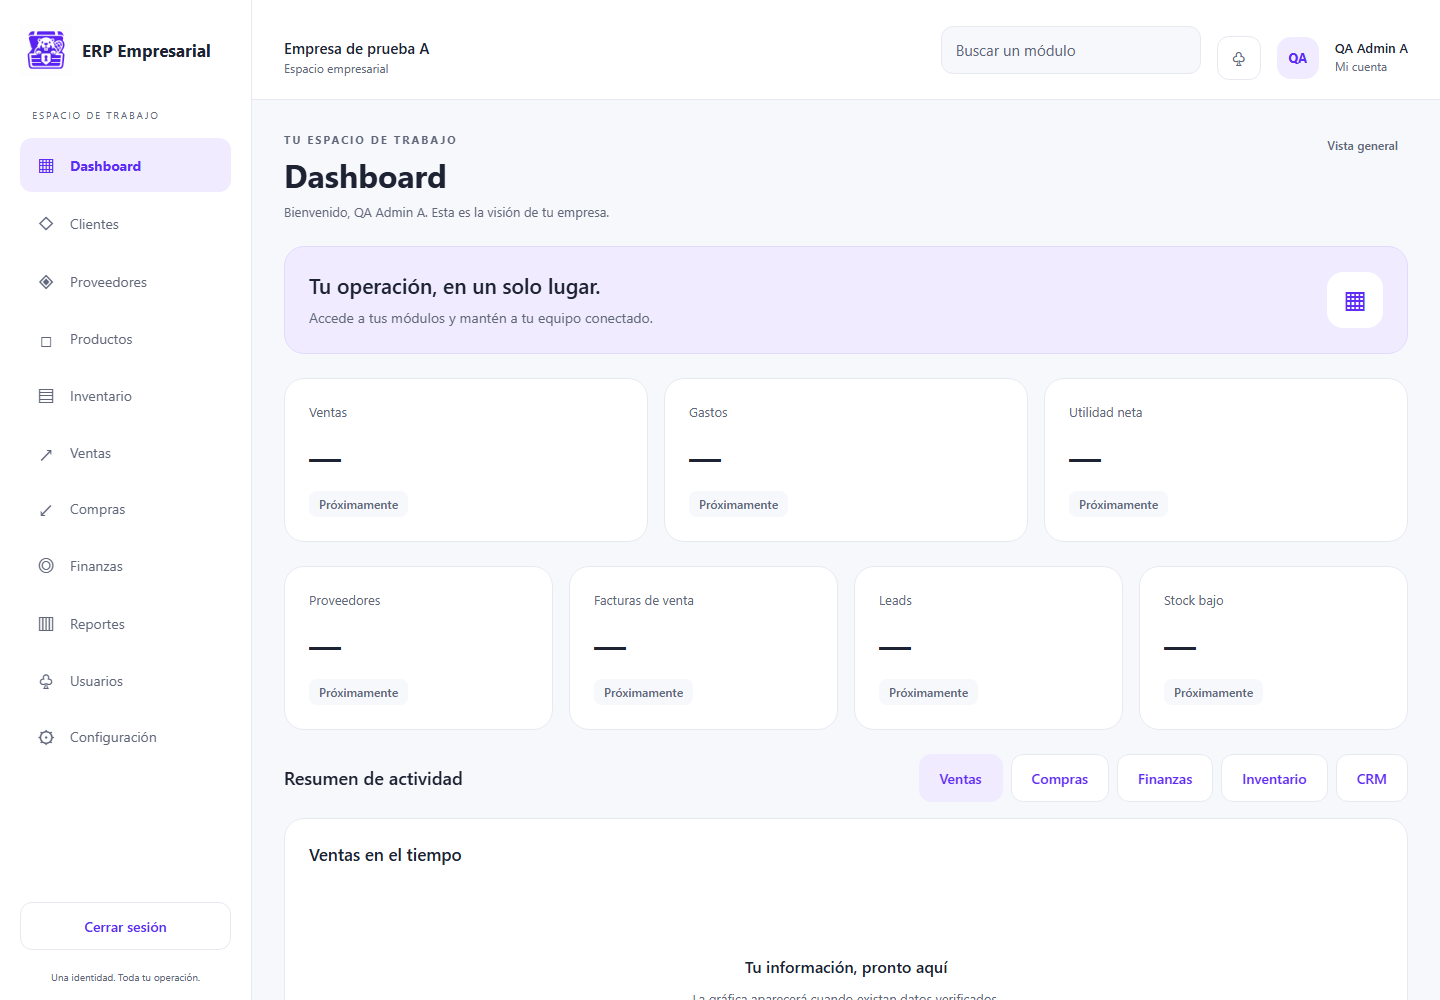
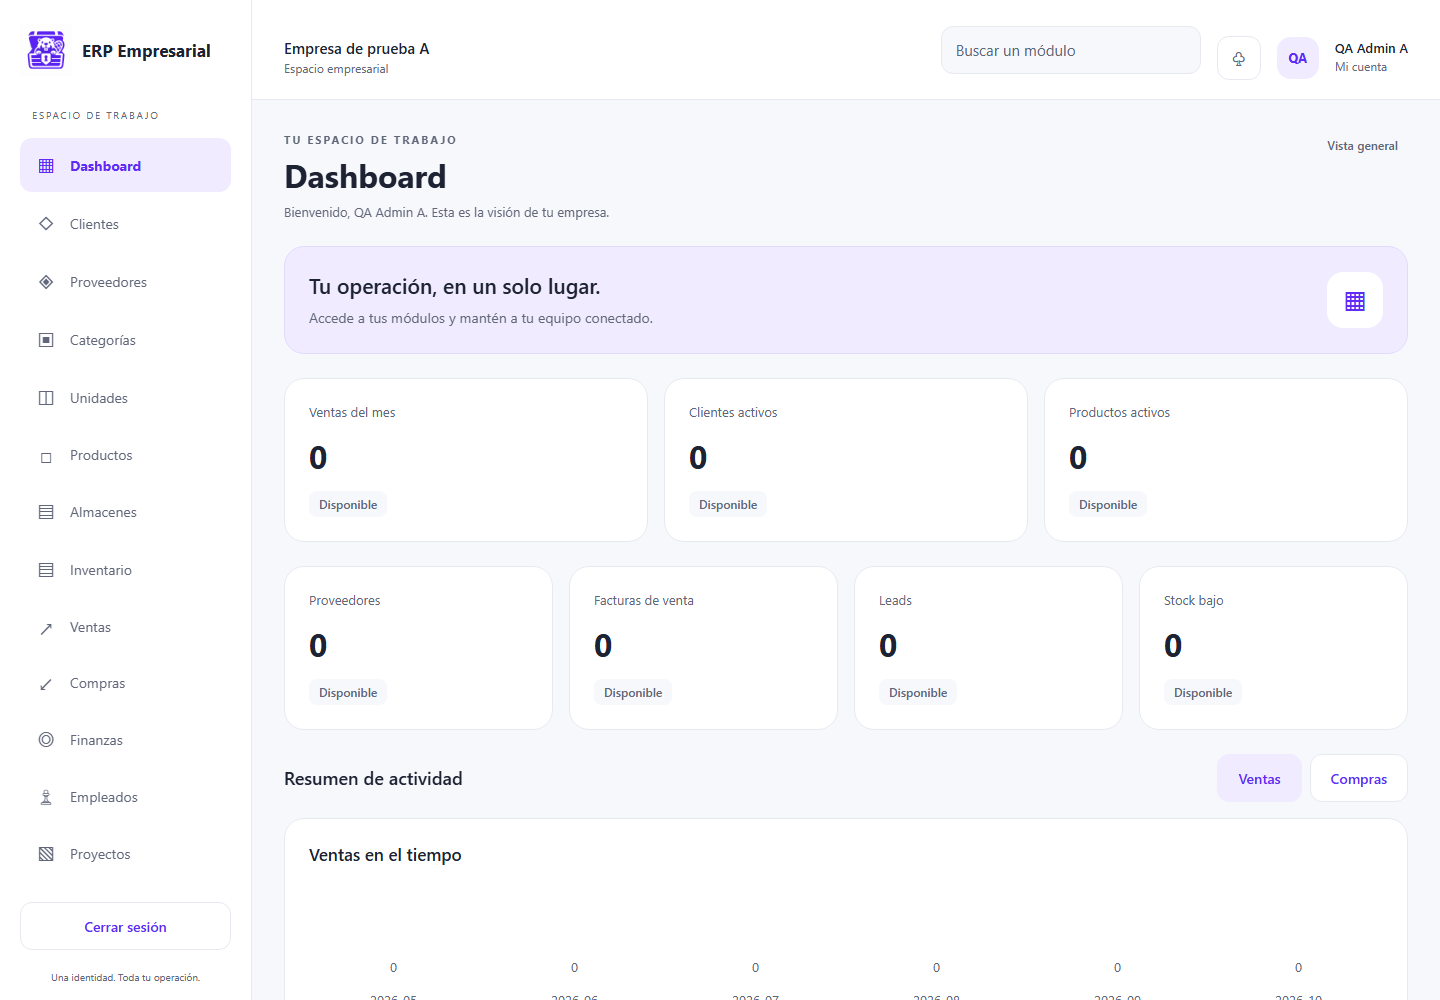
fix(dashboard): show only available report metrics

diff --git a/packages/ui/src/screens/DashboardScreen.tsx b/packages/ui/src/screens/DashboardScreen.tsx
@@ -12,9 +12,9 @@ interface DashboardData {
   series?: Partial<Record<string, Array<{ label: string; value: number }>>>;
 }
 const metrics = [
-  { key: 'sales', title: 'Ventas', permission: 'sales.view' },
-  { key: 'expenses', title: 'Gastos', permission: 'finances.view' },
-  { key: 'netProfit', title: 'Utilidad neta', permission: 'finances.view' },
+  { key: 'sales', title: 'Ventas del mes', permission: 'sales.view' },
+  { key: 'customers', title: 'Clientes activos', permission: 'customers.view' },
+  { key: 'products', title: 'Productos activos', permission: 'products.view' },
   { key: 'suppliers', title: 'Proveedores', permission: 'suppliers.view' },
   { key: 'invoices', title: 'Facturas de venta', permission: 'sales.view' },
   { key: 'leads', title: 'Leads', permission: 'reports.view' },
@@ -23,9 +23,6 @@ const metrics = [
 const charts = [
   { key: 'sales', title: 'Ventas en el tiempo', permission: 'sales.view' },
   { key: 'purchases', title: 'Compras en el tiempo', permission: 'purchases.view' },
-  { key: 'incomeExpenses', title: 'Ingresos y gastos', permission: 'finances.view' },
-  { key: 'inventory', title: 'Inventario', permission: 'inventory.view' },
-  { key: 'crm', title: 'CRM', permission: 'reports.view' },
 ];
 export function DashboardScreen({
   modules = [],
@@ -71,10 +68,12 @@ export function DashboardScreen({
       active = false;
     };
   }, [attempt, user?.companyId, user?.permissions.join(',')]);
-  const visibleCharts = charts.filter((entry) => permitted(entry.permission));
+  const visibleCharts = charts.filter(
+    (entry) => permitted(entry.permission) && Array.isArray(data?.series?.[entry.key]),
+  );
   const selected = visibleCharts.find((entry) => entry.key === chart) || visibleCharts[0];
   const metricCards = metrics.filter((metric) => permitted(metric.permission));
-  const mainKeys = ['sales', 'expenses', 'netProfit'];
+  const mainKeys = ['sales', 'customers', 'products'];
   const renderMetric = (metric: (typeof metrics)[number]) => {
     const value = data?.metrics?.[metric.key];
     return (

diff --git a/apps/web/tests/e2e/workspace.spec.ts b/apps/web/tests/e2e/workspace.spec.ts
@@ -42,13 +42,18 @@ test('login: logo, proporción, teclado, errores y responsive', async ({ page },
     fullPage: true,
   });
 });
-test('dashboard real muestra disponibilidad sin inventar métricas', async ({ page }, info) => {
+test('dashboard real muestra métricas y gráficas disponibles', async ({ page }, info) => {
   const errors: string[] = [];
   page.on('pageerror', (error) => errors.push(error.message));
   await login(page);
   await expect(page.getByText('Empresa de prueba A', { exact: true })).toBeVisible();
-  await expect(page.getByText('Próximamente', { exact: true }).first()).toBeVisible();
-  await expect(page.getByText('Tu información, pronto aquí', { exact: true })).toBeVisible();
+  await expect(page.getByText('Ventas del mes', { exact: true })).toBeVisible();
+  await expect(page.getByText('Clientes activos', { exact: true })).toBeVisible();
+  await expect(page.getByText('Productos activos', { exact: true })).toBeVisible();
+  await expect(page.getByText('Ventas en el tiempo', { exact: true })).toBeVisible();
+  await expect(page.getByText('Próximamente', { exact: true })).toHaveCount(0);
+  await expect(page.getByText('Gastos', { exact: true })).toHaveCount(0);
+  await expect(page.getByText('Utilidad neta', { exact: true })).toHaveCount(0);
   await noOverflow(page);
   expect(errors).toEqual([]);
   await page.screenshot({
@@ -578,7 +583,8 @@ test('logout revoca también la sesión en el servidor', async ({ page, request 
 });
 test('entrada de Mobile Preview comparte identidad y navegación', async ({ page }, info) => {
   await login(page, 'http://127.0.0.1:4174');
-  await expect(page.getByText('Próximamente', { exact: true }).first()).toBeVisible();
+  await expect(page.getByText('Ventas del mes', { exact: true })).toBeVisible();
+  await expect(page.getByText('Ventas en el tiempo', { exact: true })).toBeVisible();
   if (info.project.name === 'mobile')
     await expect(page.getByRole('button', { name: 'Más módulos' })).toBeVisible();
   await noOverflow(page);

diff --git a/docs/QA-VERIFICATION.md b/docs/QA-VERIFICATION.md
@@ -1,5 +1,17 @@
 # Verificación QA actual
 
+## Cierre de dashboard — 2026-10-07
+
+En `main` basado en `4d90e82`, el harness `node scripts/run-e2e.cjs` compiló
+paquetes, backend, web y preview móvil y pasó **51 E2E** en Chromium para
+desktop, tablet y móvil. Tras el ajuste final de distribución de tarjetas,
+`node scripts/run-e2e.cjs -g "dashboard real|Mobile Preview"` volvió a compilar
+y pasó **6 E2E**. El dashboard ahora muestra solo las métricas y series que
+devuelve el API. La compilación conserva las advertencias habituales de
+directivas `use client` de React Native Web y del bundle web mayor a 500 kB.
+
+## Evidencia histórica — 2026-10-02
+
 **Verified at:** 2026-10-02 10:34 America/Mexico_City. **Commit:** `868518619e030976d4f6fe4131eb6df28ccf5b45` (base; las pruebas se ejecutaron sobre los cambios del working tree de esta fase). **Environment:** Windows/OneDrive, Node 24.21.0, npm 11.19.0, MongoDB 7.0.24 temporal en replica set, Chromium de Playwright. Ninguna prueba usa Atlas ni la URI del `.env` local.
 
 | Comando / verificación                                               |     Exit code | Resultado actual                                                                                                                                   |

diff --git a/docs/DEVELOPMENT-STATUS.md b/docs/DEVELOPMENT-STATUS.md
@@ -34,6 +34,14 @@ roles del sistema no se editan y no se desactiva un rol con usuarios activos.
 Las pantallas y flujos pasan E2E en desktop, tablet y móvil; la prueba Core de
 roles/sucursales pasa 38 casos.
 
+Fase H: auditoría de cierre alineó las tarjetas del dashboard con las métricas
+que realmente entrega reportes y oculta las gráficas sin una serie disponible.
+La batería completa pasó 51 E2E en desktop, tablet y móvil; después del último
+ajuste visual pasaron además los seis E2E dirigidos al dashboard y Mobile
+Preview. La compilación raíz ejecutada por el harness también pasó. Los gates
+externos siguen siendo la verificación manual de Android Studio/teléfono,
+despliegue y migraciones controladas de MongoDB; no se cambió Atlas ni Render.
+
 ## Corte anterior
 
 Actualizado: 2026-10-02. Commit base inspeccionado: `8685186`. **CURRENT PHASE: CORE HARDENING. Estado: `CORE_HARDENING_CODE_COMPLETE`, `EXTERNAL_GATES_PENDING`.** El cierre productivo requiere los gates externos descritos abajo.
